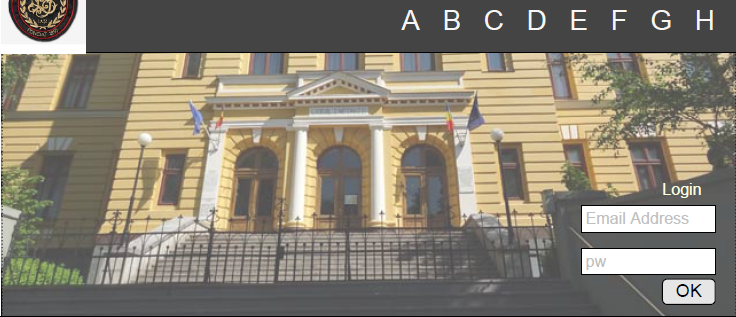
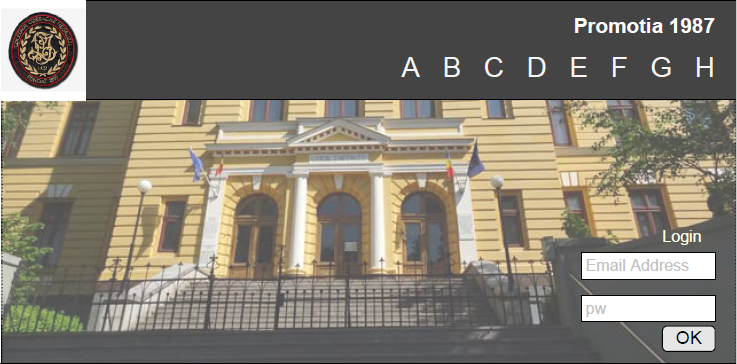
login controls styling

diff --git a/Header.html b/Header.html
@@ -1,12 +1,12 @@
 <meta charset="utf-8"/>
 <link rel="stylesheet" type="text/css" href="css/header.css">
-<script url="https://code.jquery.com/jquery-3.2.1.min.js" type="text/javascript"></script>
-<script url="../js/login.js" type="text/javascript"></script>
+<script src="https://code.jquery.com/jquery-3.2.1.min.js" type="text/javascript"></script>
+<script src="../js/login.js" type="text/javascript"></script>
 <div class="header">
-    <div class="login">
-        <label>Login</label>
-        <input type="text" id="username" placeholder="email address"/>
-        <input type="password" id="password" placeholder="password"/>
-        <button id="loginOK">OK</button>
+    <div class="login floatRight">
+        <label class="loginLabel floatRight">Login</label>
+        <input type="text" class="floatRight textBox marginTop" id="username" placeholder="email address"/>
+        <input type="password" class="floatRight textBox marginTop" id="password" placeholder="password"/>
+        <button class="floatRight marginTop" id="loginOK">OK</button>
     </div>
 </div>

diff --git a/css/header.css b/css/header.css
@@ -4,11 +4,40 @@
     margin: auto;
     position: relative;
     height: 50%;
-    width: 70%;
+    width: 50%;
 }
 
 .login {
+    margin-right: 2.5%;
+    width: 19%;
+    height: 55%;
+    vertical-align: bottom;
+    position: absolute; 
+    bottom: -16.5%; 
+    right: 0;
+}
+
+.loginLabel {
+    color: white;
+}
+
+.floatRight {
     float: right;
-    margin-right: 1%;
-    width: 20%;
+}
+
+.textBox {
+    width: 100%;
+}
+
+.marginTop {
+    margin-top: 4%;
+}
+
+.header input {
+    height: 15%;
+}
+
+.header button {
+    width: 40%;
+    border-radius: 7px;
 }

diff --git a/js/login.js b/js/login.js
@@ -1,7 +1,6 @@
 $(document).ready(function() {
     console.log( "ready!" );
-    alert("ready");
-    $(".loginOK").click(function() {
+    $("#loginOK").click(function() {
         var username = $("#username").val();
         var password = $("#password").val();
         var isLoginOk = performLogin(username, password);
